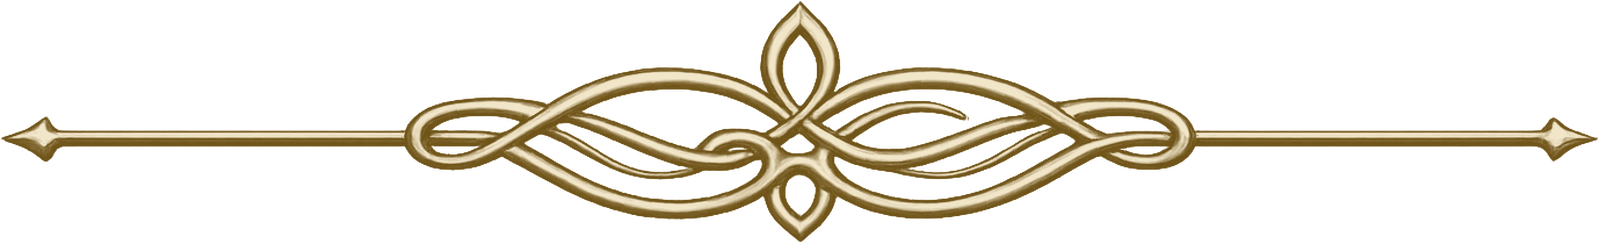
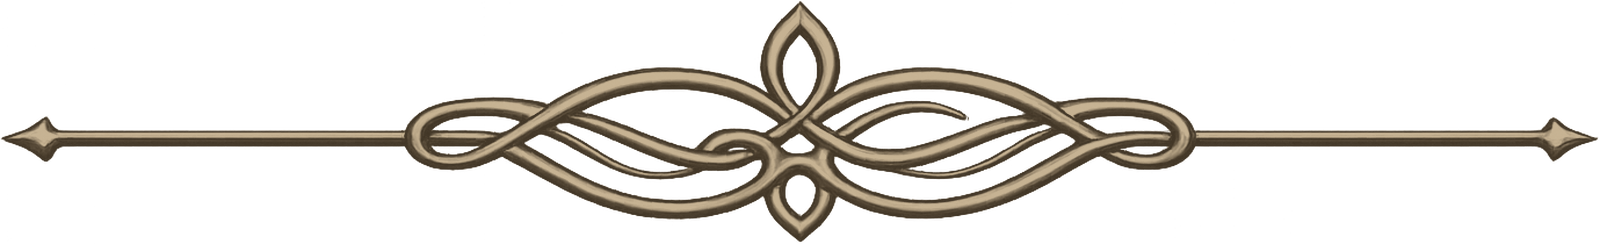
Add files via upload

Changed region(s): [[0.0, 0.0287, 1.0, 0.9754]]

diff --git a/index.html b/index.html
@@ -36,7 +36,8 @@ window.SITE_CONFIG = {
 
   // Artwork, uploaded to the repo alongside index.html.
   assets: {
-    hero:    "assets/hero-plate.jpg",  // Byron left, castle right, dark centre
+    hero:    "assets/hero-plate.jpg",     // wide, for desktop
+    heroTall:"assets/hero-portrait.jpg",  // portrait, for phones
     mark:    "assets/crest.png",       // the crowned shield, used throughout
     crest:   "assets/crest.png",       // the crowned shield
     paper:   "assets/paper.jpg",       // seamless page fibre
@@ -177,12 +178,14 @@ button{font:inherit;color:inherit}
   .nav a{letter-spacing:.12em;font-size:.8rem;white-space:nowrap;flex:none}
 }
 @media (max-width:900px){
-  .hero-bg{background-position:26% center}
+  /* portrait artwork, and the headline sits under him rather than over him */
+  .hero-bg{background-image:var(--hero-tall);background-position:center center}
+  .hero{min-height:calc(96svh - var(--bar));justify-content:flex-end;
+    padding-bottom:clamp(2.5rem,7vh,4.5rem)}
+  .hero-in{max-width:34rem}
 }
 @media (max-width:560px){
-  .hero{min-height:calc(78svh - var(--bar))}
-  .hero-bg{background-position:30% center}
-  .hero-in{padding-top:34vh}
+  .hero{min-height:calc(94svh - var(--bar))}
   .hero-say{font-size:clamp(1.45rem,7vw,2.2rem);max-width:15ch;
     text-shadow:0 2px 24px rgba(6,6,8,.96),0 0 60px rgba(6,6,8,.9)}
   .archead{min-height:12rem}
@@ -203,7 +206,7 @@ main{position:relative;z-index:2;padding-top:var(--bar)}
   text-align:center;padding:clamp(2rem,7vh,5rem) var(--gut) clamp(1.5rem,4vh,3rem);
   margin-top:calc(var(--bar) * -1);padding-top:calc(var(--bar) + clamp(2rem,7vh,5rem));
   isolation:isolate;overflow:hidden}
-.hero-bg{position:absolute;inset:0;z-index:-2;background:var(--void) center 62% / cover no-repeat;
+.hero-bg{position:absolute;inset:0;z-index:-2;background:var(--void) var(--hero) center 62% / cover no-repeat;
   animation:heroIn 2.6s var(--ease) both}
 @keyframes heroIn{from{opacity:0;transform:scale(1.06)}to{opacity:1;transform:none}}
 .hero-bg::after{content:"";position:absolute;inset:0;
@@ -331,7 +334,7 @@ main{position:relative;z-index:2;padding-top:var(--bar)}
 .pg-title{font-family:var(--display);font-weight:500;color:#241E15;
   font-size:calc(2.05rem*var(--ps,1));line-height:1.08;text-align:center;
   margin:0 0 calc(.7rem*var(--ps,1));text-wrap:balance;letter-spacing:.005em}
-.pg-fl{width:46%;margin:.1rem auto calc(.9rem*var(--ps,1));opacity:.9}
+.pg-fl{width:31%;margin:.1rem auto calc(.85rem*var(--ps,1));opacity:.9}
 .pg-dek{font-family:var(--display);font-style:italic;text-align:center;color:#54493A;
   font-size:calc(1.02rem*var(--ps,1));margin:0 0 calc(.5rem*var(--ps,1))}
 .pg-by{font-family:var(--body);font-weight:600;font-size:calc(.74rem*var(--ps,1));letter-spacing:.16em;
@@ -1035,7 +1038,8 @@ const FIL = (cls="", which="orn") => {
 
 /* your logo, if you've supplied one */
 const ART = Object.assign({
-  hero:"assets/hero-plate.jpg", mark:"assets/crest.png", crest:"assets/crest.png",
+  hero:"assets/hero-plate.jpg", heroTall:"assets/hero-portrait.jpg",
+  mark:"assets/crest.png", crest:"assets/crest.png",
   paper:"assets/paper.jpg", archive:"assets/archive-bg.jpg",
   orn:"assets/divider.png", ornInk:"assets/divider-ink.png"
 }, CFG.assets||{});
@@ -1129,7 +1133,7 @@ function viewHome(){
 
   return `
   <section class="hero">
-    <div class="hero-bg" style="background-image:url('${esc(ART.hero)}')" aria-hidden="true"></div>
+    <div class="hero-bg" style="--hero:url('${esc(ART.hero)}');--hero-tall:url('${esc(ART.heroTall)}')" aria-hidden="true"></div>
     <div class="hero-in">
       <p class="hero-say">${esc(store.site.bio)}</p>
       <p class="hero-name">My name is ${esc(store.site.byline)}</p>
